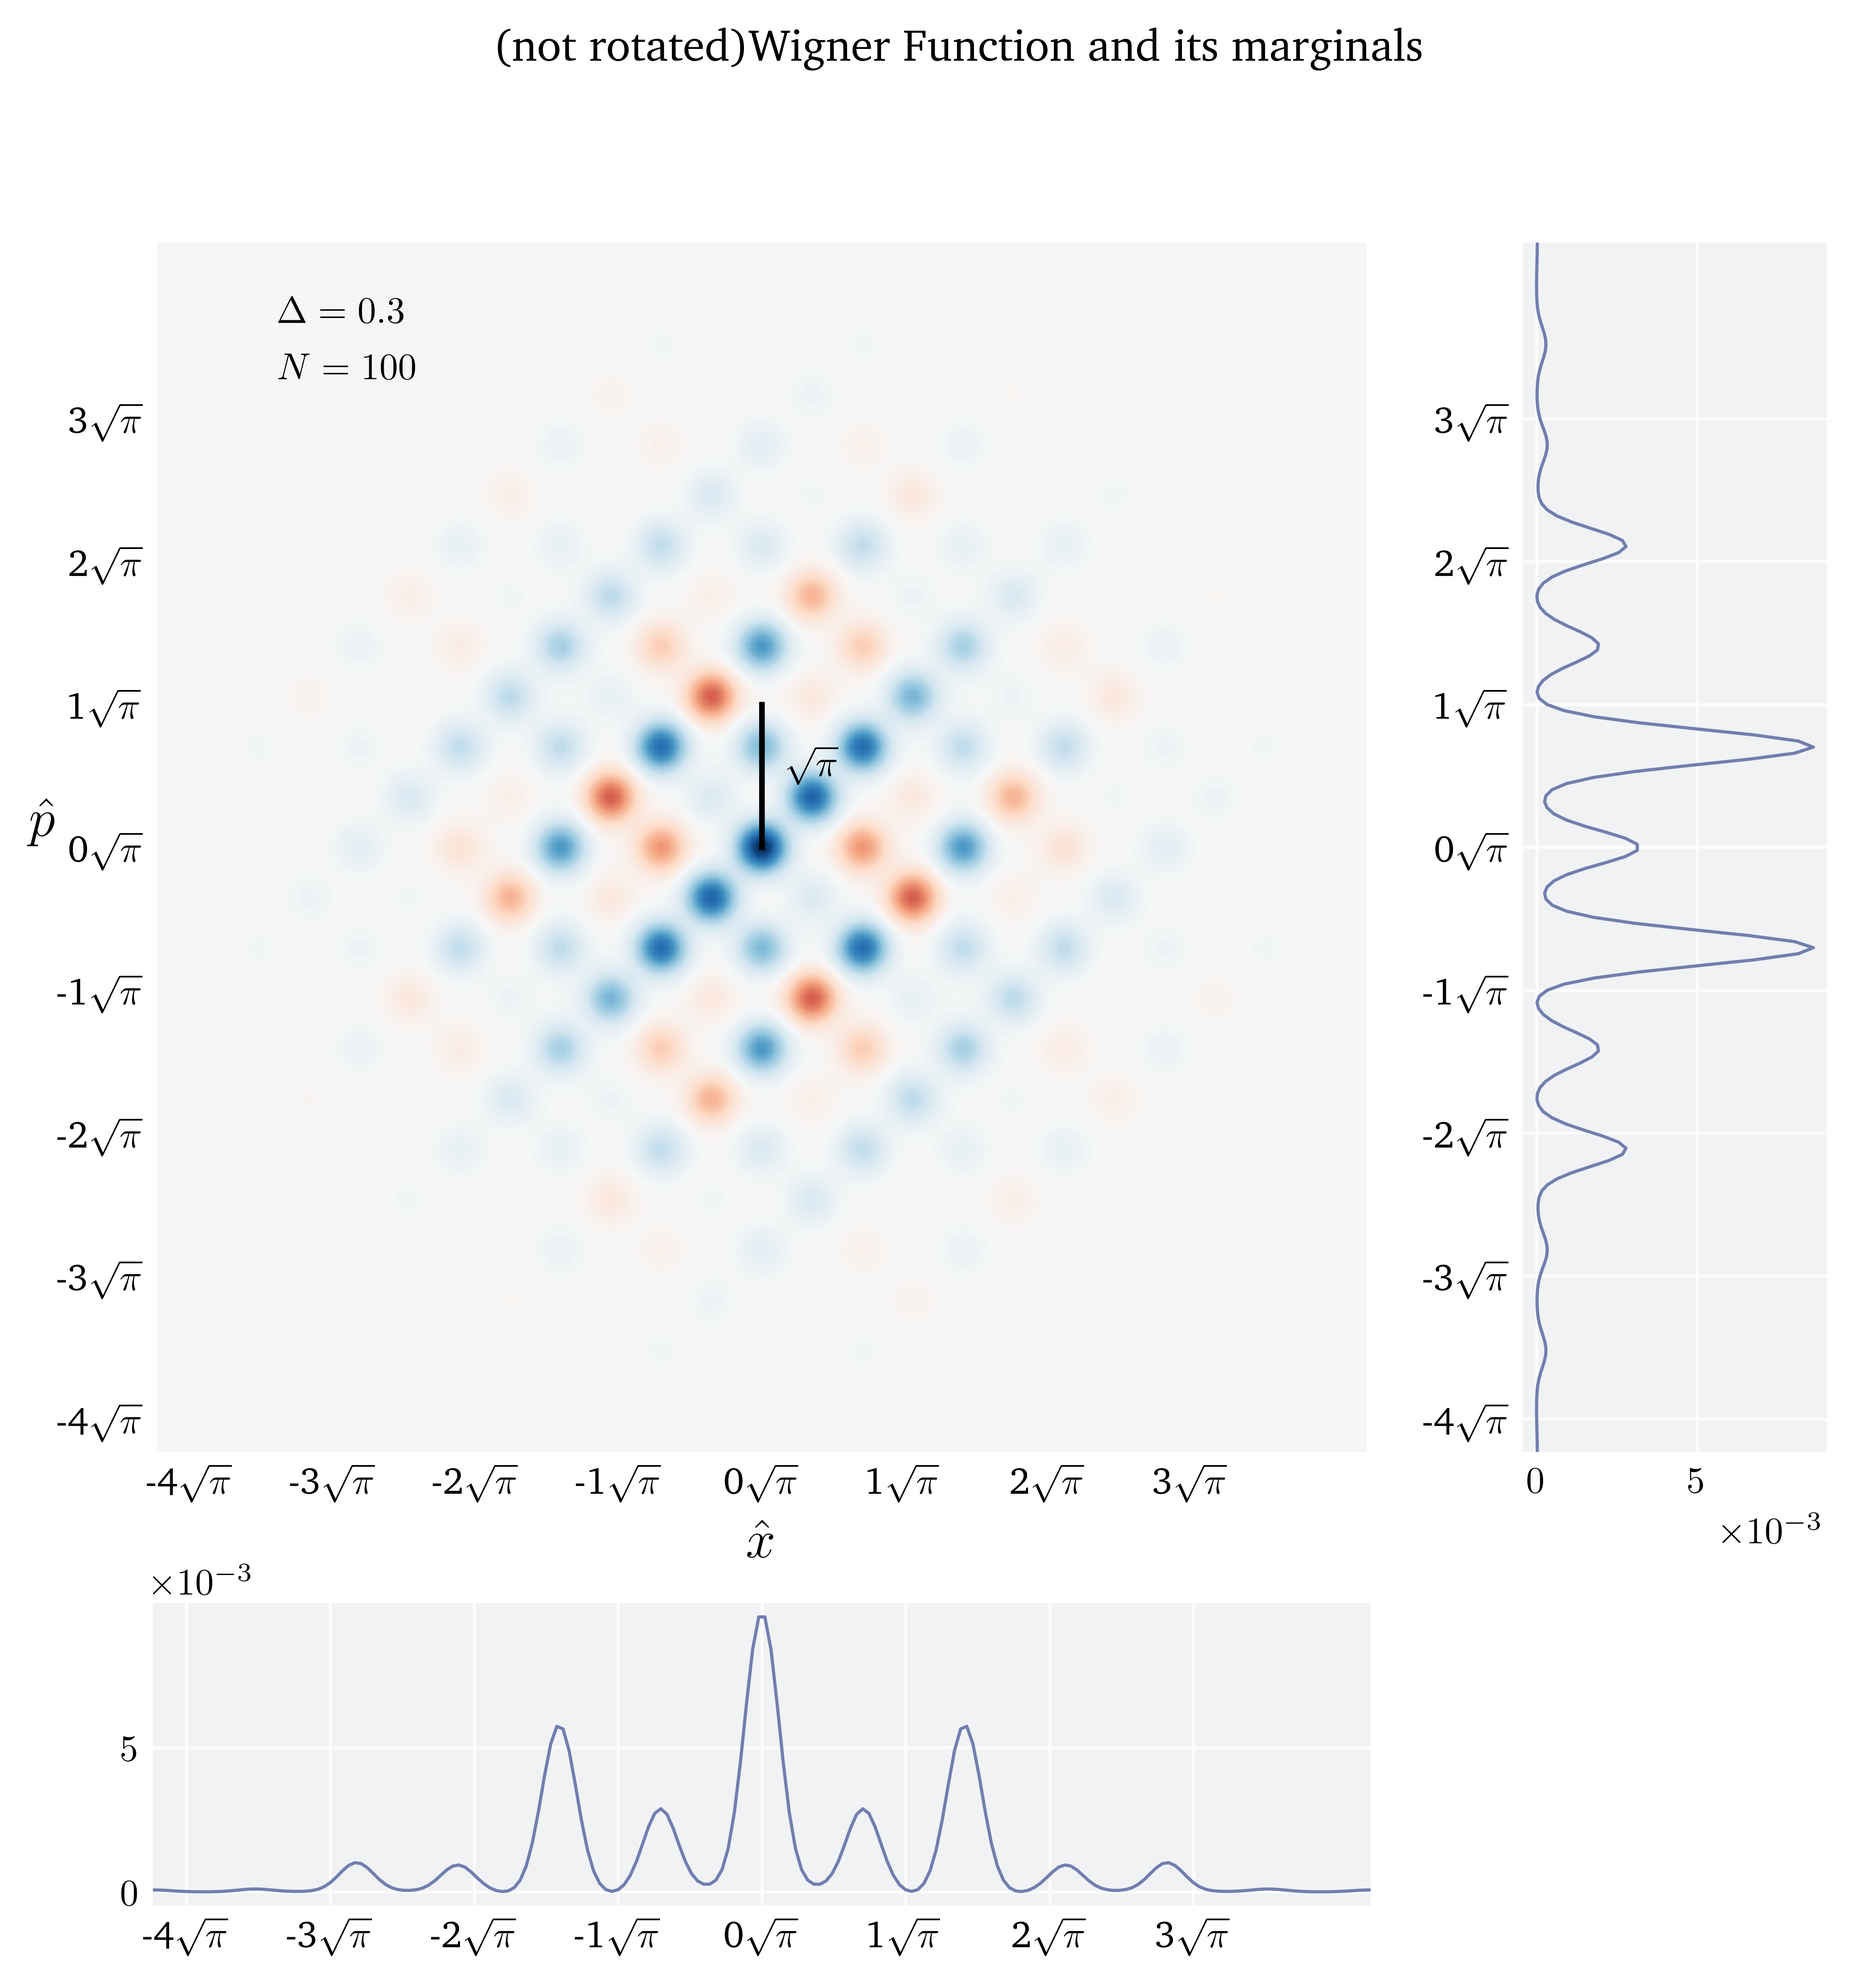
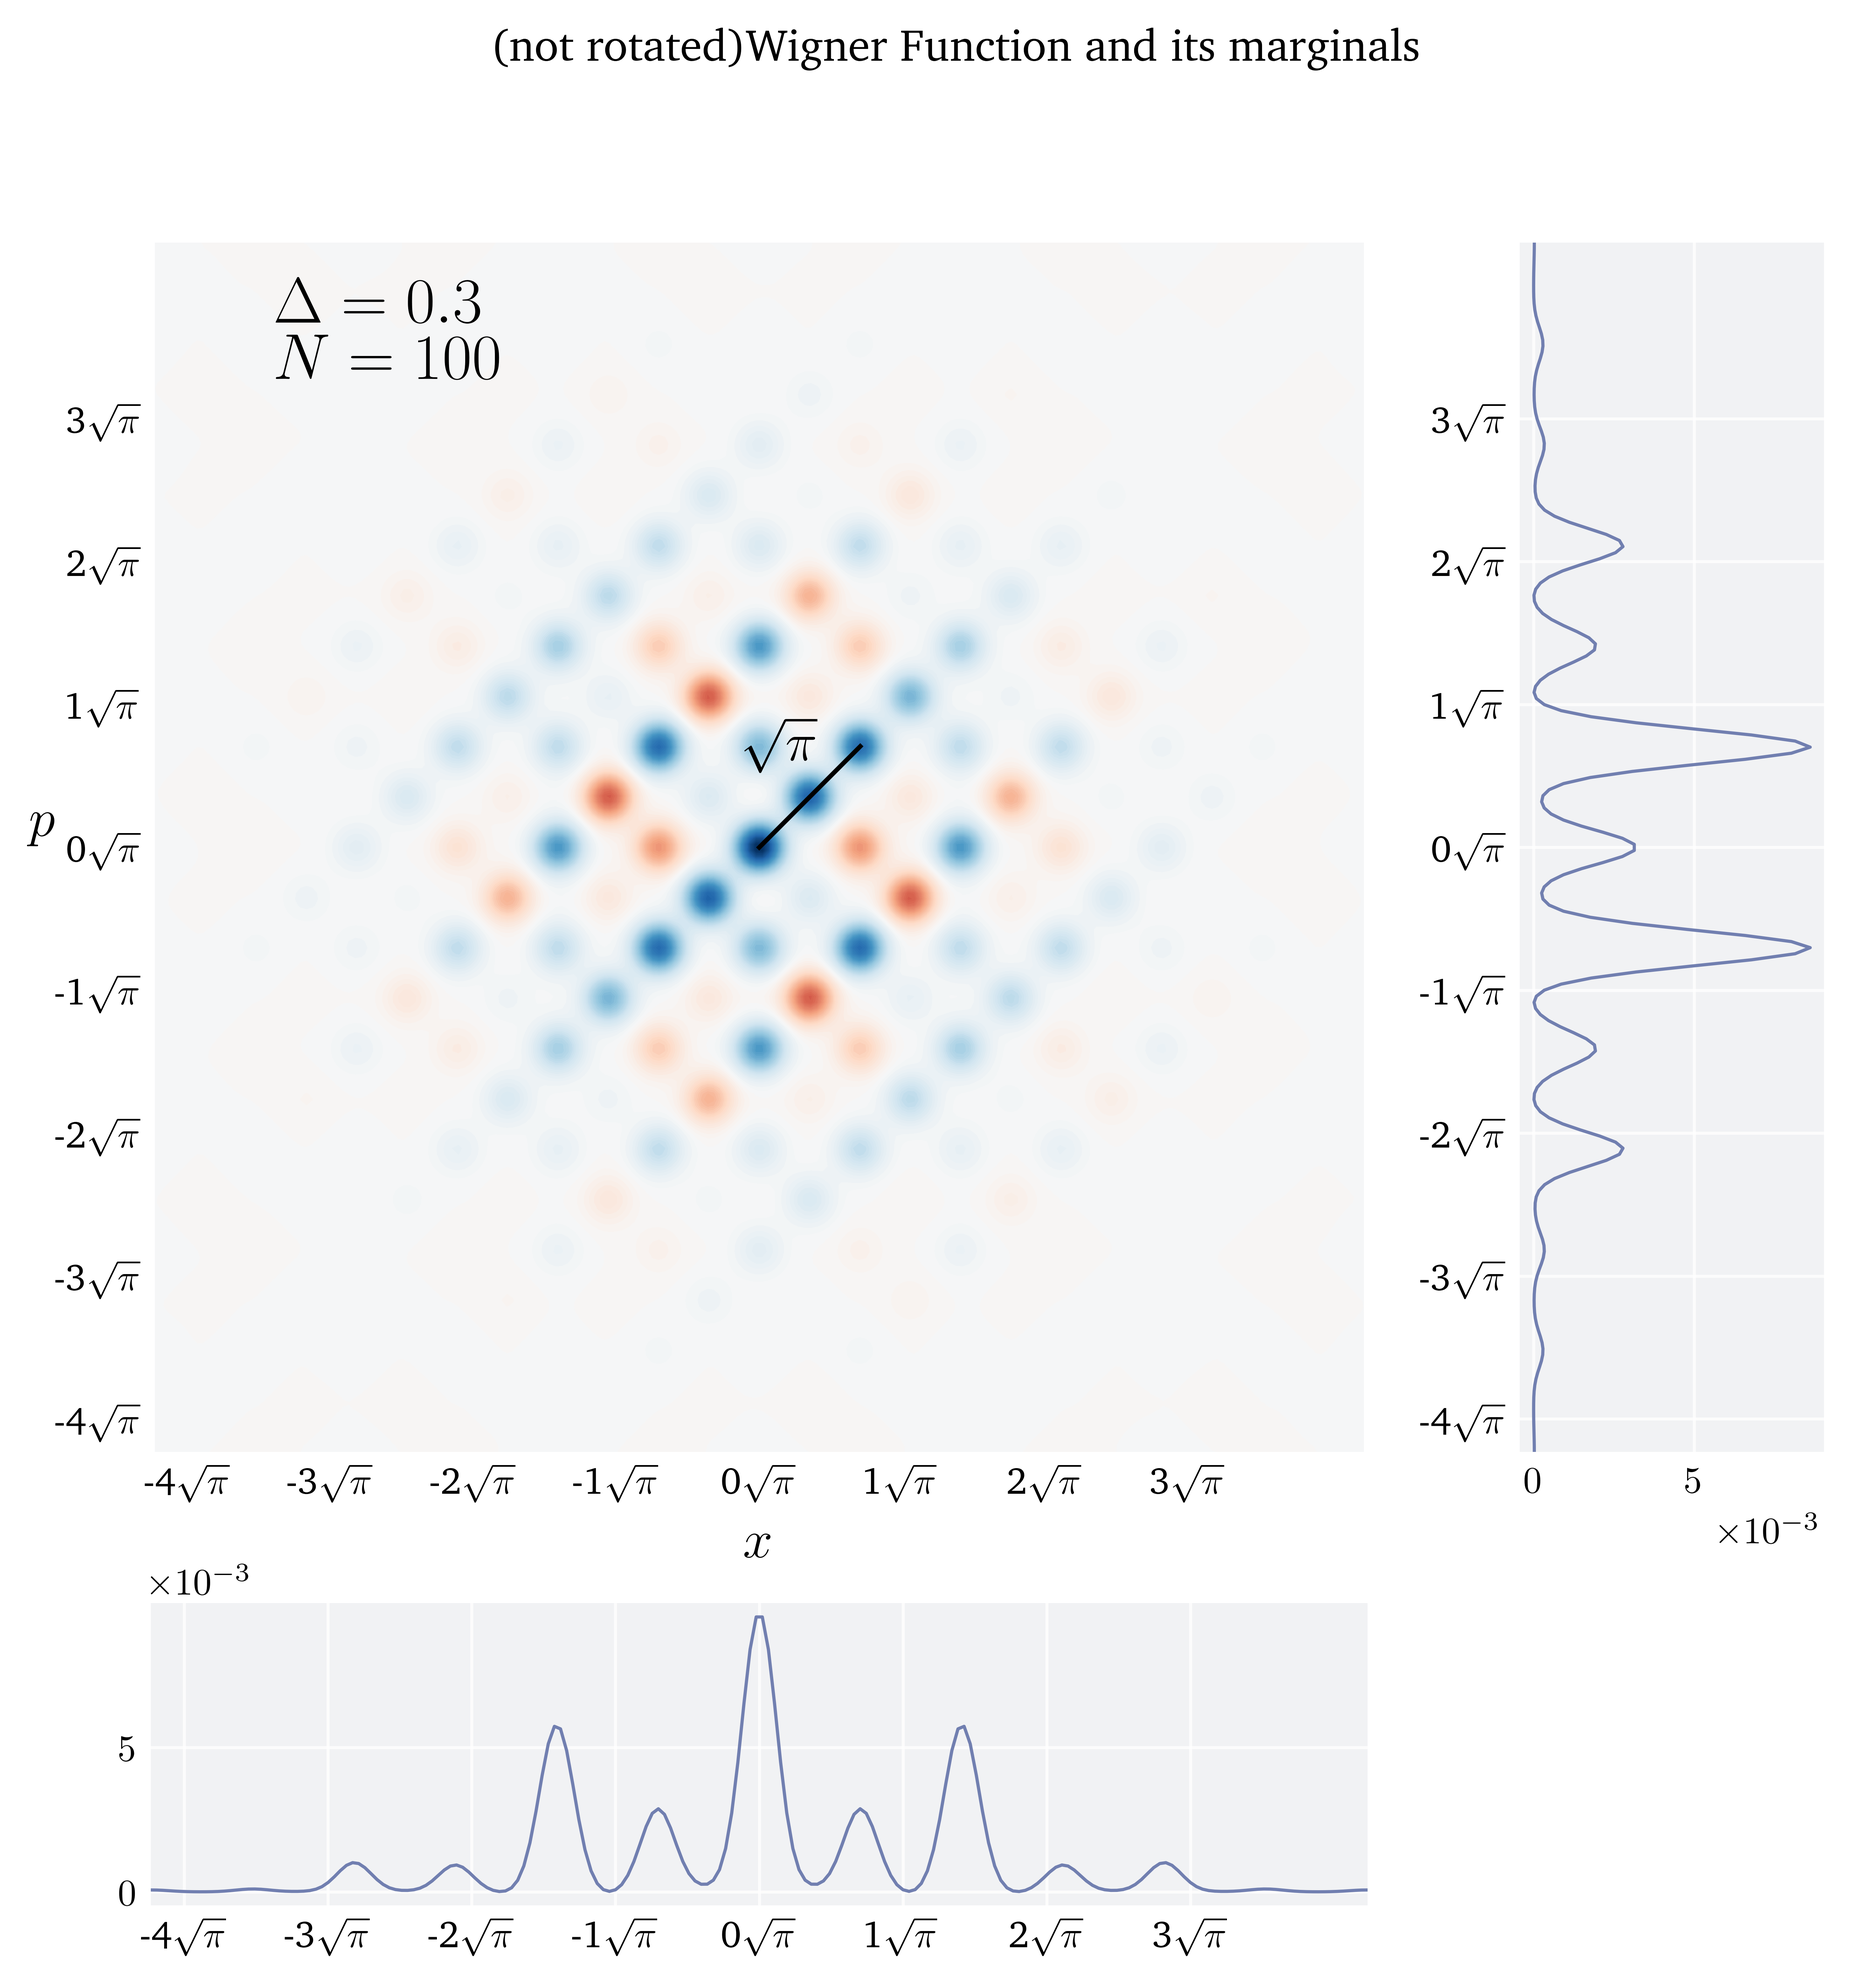
corrected_perf_pio16

diff --git a/stage_baptiste/projects/Other_GKPs/GKP_4/GKP_4.py b/stage_baptiste/projects/Other_GKPs/GKP_4/GKP_4.py
@@ -102,8 +102,8 @@ if wigner:
         ax1.set_ylabel(r"$\hat{p}_4$",fontsize='x-large', rotation=0)
     if not angle:
         fig.suptitle(r"(not rotated)Wigner Function and its marginals")
-        ax1.set_xlabel(r"$\hat{x}$",fontsize='x-large')
-        ax1.set_ylabel(r"$\hat{p}$",fontsize='x-large', rotation=0)
+        ax1.set_xlabel(r"$x$",fontsize='x-large')
+        ax1.set_ylabel(r"$p$",fontsize='x-large', rotation=0)
     ax1.contourf(xvec, yvec, rotW0, 100,norm=mpl.colors.Normalize(-wlim, wlim),cmap=mpl.colormaps['RdBu'])
     ax2 = fig.add_subplot(gs[1],sharey=ax1)
     # ax2.plot(Wy.data,np.linspace(-7.5,7.5,250))
@@ -111,17 +111,17 @@ if wigner:
     ax3 = fig.add_subplot(gs[2],sharex=ax1)
     # ax3.plot(np.linspace(-7.5,7.5,250),Wx.data)
     ax3.plot(np.linspace(-7.5,7.5,200)[:,None],rotWx)
-    ax1.text(-6,6.5,rf"$\Delta = {delta}$")
-    ax1.text(-6,5.8,rf"$N = {dim}$")
+    ax1.text(-6,6.5,rf"$\Delta = {delta}$",fontsize='xx-large')
+    ax1.text(-6,5.7,rf"$N = {dim}$",fontsize='xx-large')
     # ax1.text(-6,5.0,r"$U = e^{i\frac{\pi}{16}n^2}$")
     # ax1.text(-6,5,r"$|\psi\rangle = |\bar{0}\rangle_{(2)}$")
-    # ax1.text(-6,5,r"$|\psi\rangle = \frac{1}{2}(|\bar{0}\rangle_{(4)} + e^{i\pi/4}|\bar{1}\rangle_{(4)}"
-    #                                             r"-|\bar{2}\rangle_{(4)} + e^{i\pi/4}|\bar{3}\rangle_{(4)})$")
+    ax1.text(-6,4.8,r"$|\psi\rangle = \frac{1}{2}(|\bar{0}\rangle_{(4)} + e^{i\pi/4}|\bar{1}\rangle_{(4)}"
+                                                r"-|\bar{2}\rangle_{(4)} + e^{i\pi/4}|\bar{3}\rangle_{(4)})$",fontsize='x-large')
     # mesuring dimension of grid
-    ax1.plot([0,0],[0,sqrt(pi)],'-',lw=1.5,color="black")
-    ax1.text(sqrt(pi/2)/4,sqrt(pi)/2,r"$\sqrt{\pi}$",color="black",rotation=0)
+    ax1.plot([0,sqrt(pi/2)],[0,sqrt(pi/2)],'-',lw=1.2,color="black")
+    ax1.text(sqrt(pi/2)/4-0.5,sqrt(pi)/2+0.2,r"$\sqrt{\pi}$",color="black",rotation=0,fontsize='x-large')
 
-    plt.savefig(f"/Users/jeremie/Desktop/Stage_Baptiste/stage_baptiste/projects/Other_GKPs/GKP_4/figs/test")
+    plt.savefig(f"/Users/jeremie/Desktop/Stage_Baptiste/stage_baptiste/projects/Other_GKPs/GKP_4/figs/perfect_middle_state")
 
 
 # average of displacements for H
